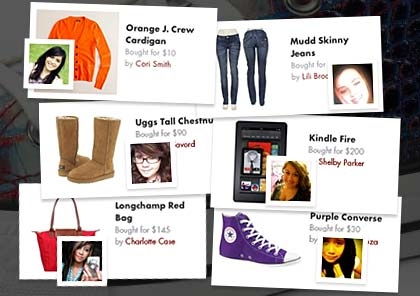
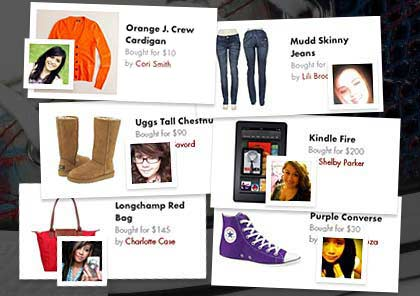
css tweaks

diff --git a/public/stylesheets/application.css b/public/stylesheets/application.css
@@ -109,7 +109,7 @@ h1 {
 #pic_bg #container {
 	width: 480px;
 	height: 475px;
-	padding-top: 42px;
+	padding-top: 24px;
 	margin: 0 auto;
 	position: relative;
 	text-align: center;
@@ -240,7 +240,7 @@ h1 {
 	color: #999999;
 	width: 480px;
 	text-align: center;
-	margin: 20px auto 0px;
+	margin: 6px auto 0px;
 }
 
 /* ------------------------------ Creation */
@@ -379,19 +379,19 @@ h1 {
 }
 
 #product_selection {
-	width: 275px;
-	height: 150px;
-	line-height: 150px;
+	width: 265px;
+	height: 140px;
+	line-height: 140px;
 	background: white url('/images/spinner.gif') no-repeat;
 	background-position: center;
 	text-align: center;
   display:none;
-  padding: 1px 0;
+  padding: 5px;
 }
 
 #product_selection_photo {
-	max-width: 275px;
-	max-height: 150px;
+	max-width: 265px;
+	max-height: 140px;
 }
 
 .add_to_closet_button {

diff --git a/public/stylesheets/home.css b/public/stylesheets/home.css
@@ -281,7 +281,7 @@ body.home5 {
 #container.home5 {
 	width: 480px;
 	height: 475px;
-	padding-top: 105px;
+	padding-top: 85px;
 	margin: 0 auto;
 	position: relative;
 	text-align: center;
@@ -330,7 +330,7 @@ body.home5 {
 	color: #999999;
 	width: 480px;
 	text-align: center;
-	margin: 20px auto 0px;
+	margin: 6px auto 0px;
 }
 
 
